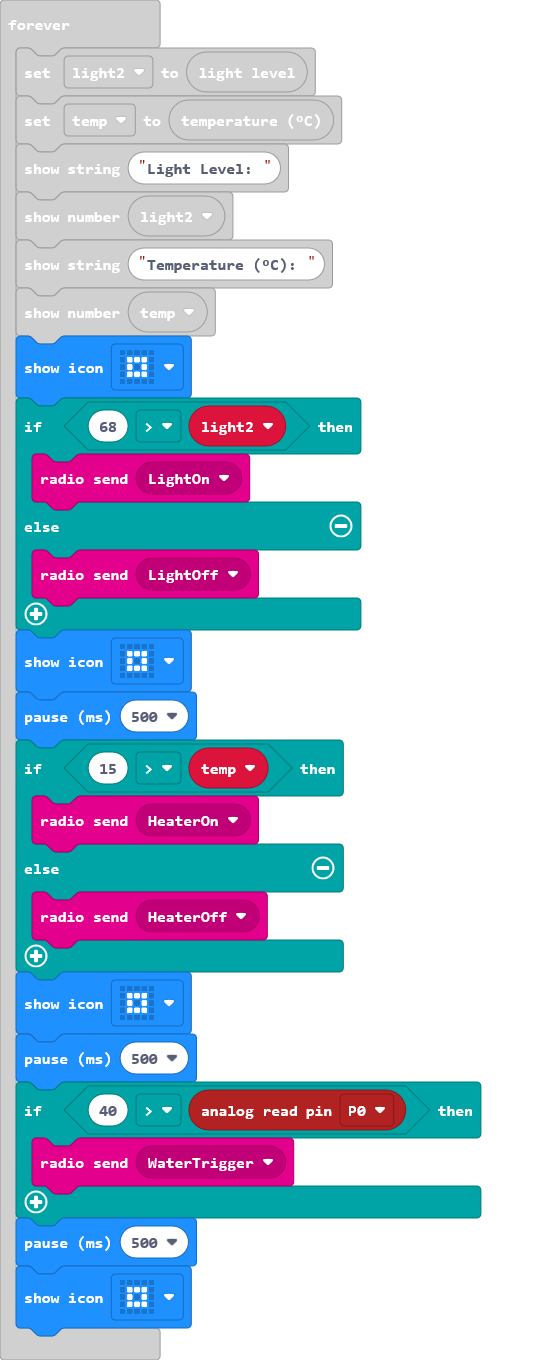
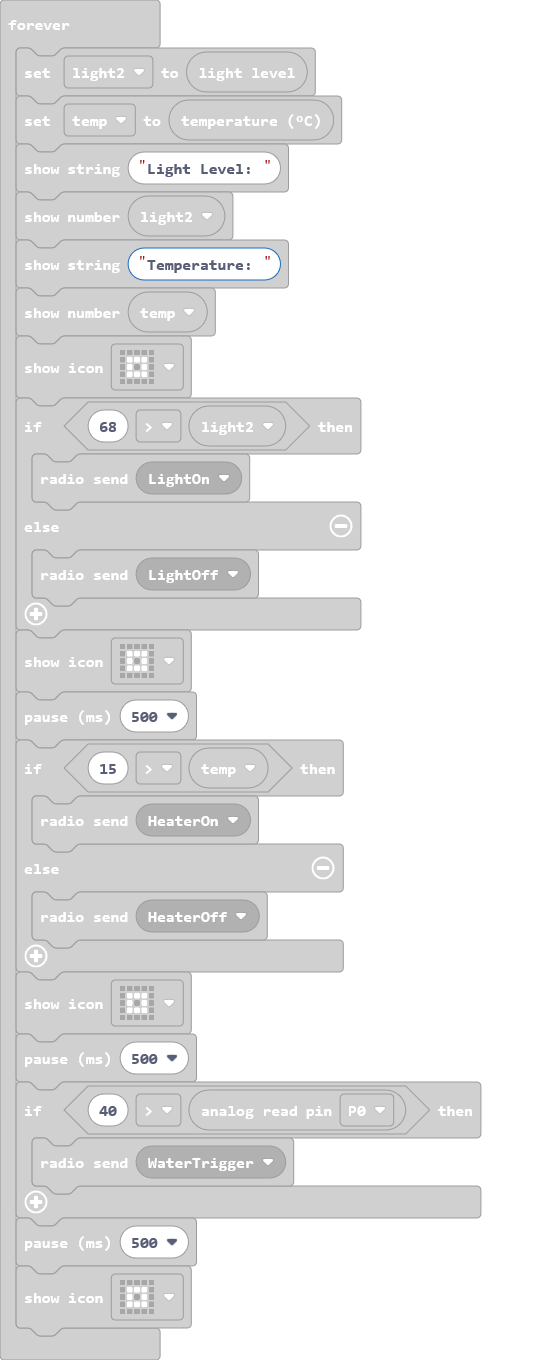
Update main.blocks, main.ts

diff --git a/main.ts b/main.ts
@@ -16,7 +16,7 @@ basic.forever(function () {
     temp = input.temperature()
     basic.showString("Light Level: ")
     basic.showNumber(light2)
-    basic.showString("Temperature (°C): ")
+    basic.showString("Temperature: ")
     basic.showNumber(temp)
     basic.showIcon(IconNames.SmallSquare)
     if (68 > light2) {
